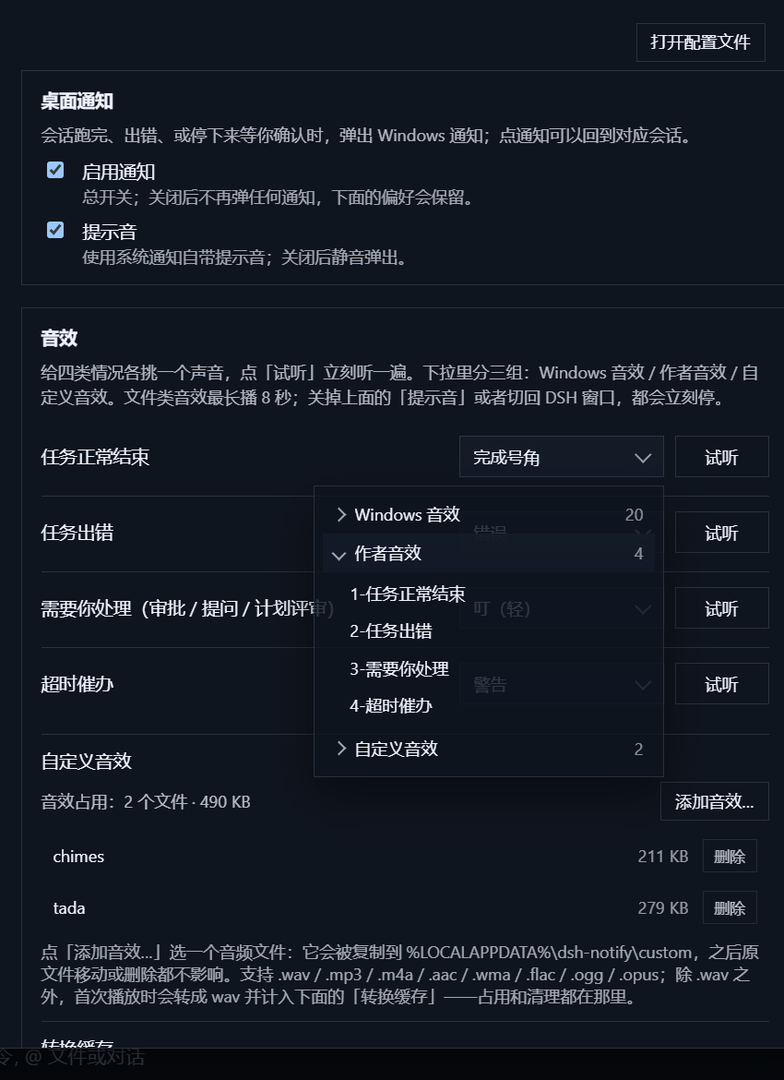
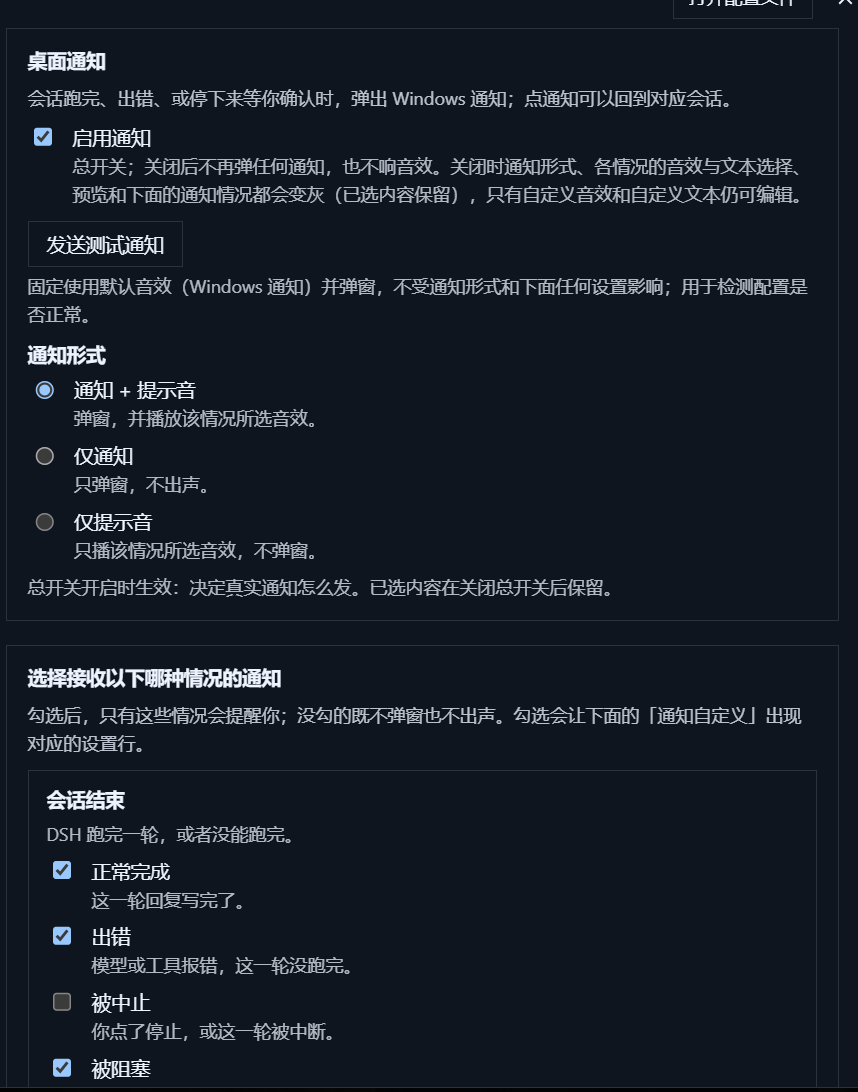
chore(release): 0.2.0
Bump both manifests to 0.2.0 and cut the 0.2.0 changelog section with the live-verification note. Refresh both READMEs and add three settings screenshots. Sanitize machine-specific paths in the acceptance records, make scripts/selfcheck.mjs resolve the built bundle relative to itself, and drop a machine-specific fixture path from the summary test.

diff --git a/tests/summary.spec.ts b/tests/summary.spec.ts
@@ -64,7 +64,7 @@ describe('toast copy', () => {
 
   it('names the workspace from the session directory', () => {
     expect(workspaceName('D:\\projects\\notification plugin')).toBe('notification plugin')
-    expect(workspaceName('E:/dsh-plugins/dsh-notify-desktop/')).toBe('dsh-notify-desktop')
+    expect(workspaceName('C:/work/my-tool/')).toBe('my-tool')
     expect(workspaceName(undefined)).toBe('')
   })
 })

diff --git a/AGENTS.md b/AGENTS.md
@@ -34,14 +34,14 @@
 | **有焦点** | **不弹**（按设计抑制） | — |
 | **无焦点**（可见但没被选中 / 最小化 / 隐藏） | 宿主 PowerShell Toast（AUMID `electron.app.DeepSeek Harness`） | 只能回前台 |
 | 无焦点但宿主路由不可达 | 渲染层 `new Notification()`（兜底） | 回前台 + 跳会话 |
-| 通知形式 = 仅提示音（2026-10-25 新增） | **不弹任何东西**，`POST /dsh-notify/sound` 让宿主单独播放音效 | 无 |
+| 通知形式 = 仅提示音 | **不弹任何东西**，`POST /dsh-notify/sound` 让宿主单独播放音效 | 无 |
 
 **判据是 `!document.hasFocus()`，不是 `document.hidden`**：渲染层通知只在窗口有焦点时可靠，而那时按设计不弹 ——
 所以按「可见/隐藏」分流等于让最常见的场景落到一条不可靠的通道上（实测：最小化、可见但失焦，渲染层都是静默失效）。
 
 宿主 Toast 的三个硬约束（实测，别"优化"掉）：PowerShell **绝对路径**、**不要 `detached`**、**stdio 保留管道并 drain**（`'ignore'` 会让 Toast 静默失效且退出码仍为 0）。
 
-## 通知形式、按情况音效与弹窗文本（2026-10-25 重构）
+## 通知形式、按情况音效与弹窗文本
 
 **情况（scenario）是唯一的分组键**，共 9 个（`src/scenarios.ts` 的 `SCENARIO_IDS`，顺序即 UI 顺序）：
 `completed / error / aborted / blocked / max-tokens / approval / question / plan-review / reminder`。
@@ -54,7 +54,7 @@
 - 迁移（都在 `readSettings` 里、不换存储键）：`soundEnabled=false` → `mode:'notify'`；
   旧 4 组 `sounds.finished/error/attention/reminder` 按组下发到 9 个情况；旧全局 `titleTemplate/bodyTemplate`
   若有自定义值 → 放进 `legacyText`，客户端启动后写进各已启用情况的磁盘库并清掉该字段（失败则下次启动重试）。
-- UI 三张卡（2026-10-25 调整顺序）：**① 桌面通知**（总开关 → 发送测试通知 → 通知形式三选一）→
+- UI 三张卡：**① 桌面通知**（总开关 → 发送测试通知 → 通知形式三选一）→
   **② 选择接收以下哪种情况的通知**（"会话结束"5 个开关 / "等待你确认"3 个开关，每行带一句例子，
   **不带「例：」前缀**）→ **③ 通知自定义**（按已勾选情况的行：音效选择器 + 文本选择器 + 预览效果；
   下方两个可折叠库：自定义音效（含转换缓存）、自定义文本）。
@@ -71,7 +71,7 @@
   按情况分组、每组 ≤3；写入 = 临时文件 + rename；损坏按空库处理。宿主路由 `GET/POST /dsh-notify/text-templates`
   负责读写与校验（`src/text-store.ts` 纯逻辑可测）。客户端**启动时加载一次**并缓存（`src/client/texts.ts`），
   编辑后由 store 回填；设置里只存模板 id。
-- 排版（2026-10-25）：**字体跟随主题，不写死字体族** —— `.dsh_notify_section` 用 `var(--dsw-font-family, inherit)`，
+- 排版：**字体跟随主题，不写死字体族** —— `.dsh_notify_section` 用 `var(--dsw-font-family, inherit)`，
   模板编辑器/占位符 chips/字数计数用 `var(--ds-font-family-code, …)` 半等宽；数字统一 `font-variant-numeric: tabular-nums`，
   说明文字透明度 0.72–0.78、行高 1.55。改样式时保持这两条，否则用户改了 DSH 正文字体插件会不跟、占位符对不齐。
 
@@ -83,7 +83,7 @@
 - 非 wav 自定义音效：宿主先用 `ffmpeg` 转成 wav（缓存 `%LOCALAPPDATA%\dsh-notify\sounds\<源路径 sha1 前 16 位>.wav`）再交给 SoundPlayer。
   ffmpeg 从 **PATH** 找（`ffmpeg.exe`），**wav 与内置音效库不依赖它**；找不到 → 静音，诊断接口 `media.ffmpeg` 会显示 `null`。
 - 文件类音效**播放封顶 8 秒**（宿主 `setTimeout` + kill 子进程）；关总开关、切到「仅通知」、或窗口重获焦点，都会立刻掐（`POST /dsh-notify/silence`）。
-- **仅发声路由**（`POST /dsh-notify/sound`，2026-10-25 新增）：id 解析与 Toast 完全同源（目录/白名单），播放复用同一套
+- **仅发声路由**（`POST /dsh-notify/sound`）：id 解析与 Toast 完全同源（目录/白名单），播放复用同一套
   SoundPlayer 子进程管线（8 秒封顶 + soundPlayers + silence）。`system:*` 事件音**没有弹窗可挂 `<audio>`**，宿主用
   `reg.exe`（静态 argv，一次查整棵 `HKCU\AppEvents\Schemes\Apps\.Default`）解析 `.Current` 的 wav——
   本机实测 5 个事件全部解析成功且与 IM=SMS 重合（spike S3）；解析失败 → 静音 + debug 上报，下次重查。

diff --git a/README.zh.md b/README.zh.md
@@ -5,7 +5,7 @@
 给 **DSH 桌面端** 加 Windows 原生通知：会话跑完、出错、或停下来等你确认时弹一条系统通知，并播放**为这种情况挑好的音效**、
 显示**为这种情况写好的文字**；点通知把 DSH 窗口拉回前台。
 
-<img src="https://raw.githubusercontent.com/paleech0/dsh-notify-desktop/main/docs/images/settings.png" width="460" alt="通知设置">
+<img src="https://raw.githubusercontent.com/paleech0/dsh-notify-desktop/main/docs/images/settings.png" width="460" alt="桌面通知与通知情况">
 
 ## 它能给你什么
 
@@ -76,6 +76,9 @@
 
 勾选情况后，下面的「通知自定义」会实时出现对应行；取消勾选只是隐藏，已配的音效和文本都保留，重新勾选回来还在。
 
+<img src="https://raw.githubusercontent.com/paleech0/dsh-notify-desktop/main/docs/images/settings-situations.png" width="460" alt="通知自定义（上）：按情况选音效与文本">
+<img src="https://raw.githubusercontent.com/paleech0/dsh-notify-desktop/main/docs/images/settings-customize.png" width="460" alt="通知自定义（下）：催办分钟数与两个折叠库">
+
 ## 音效
 
 **三个分区。** 每个音效选择器都是两级：先选**来源**，再选该来源下的具体音效。
@@ -100,12 +103,12 @@
 **每个情况一套文字。** 真实通知的标题和正文来自该情况当前选中的文本：
 
 - **默认文本** —— 内置的 `{工作区} · {状态}` / `{内容}`，不需要配置。
-- **自定义文本** —— 在该情况行里选择，或在卡二的「自定义文本」里新建/编辑。每个情况最多保存 **3 套**。
+- **自定义文本** —— 在该情况行里选择，或在卡三的「自定义文本」里新建/编辑。每个情况最多保存 **3 套**。
 
 **编辑器。** 名称（最多 24 字）、标题（120 字）、正文（300 字）；占位符 `{工作区}` `{状态}` `{内容}` `{分钟}`
 可点击插入，编辑器里会实时渲染一行预览。长度上限与 Windows Toast 的截断一致。
 
-**测试与预览。** 卡一的「发送测试通知」永远是固定文案 + 系统默认音效；卡二的「预览效果」才用该情况真正的文本和音效
+**测试与预览。** 卡一的「发送测试通知」永远是固定文案 + 系统默认音效；卡三的「预览效果」才用该情况真正的文本和音效
 （跟随当前通知形式）。默认文本的 `{内容}` 为空时整条正文回退到该情况的内置提示句。
 
 **存在哪里。** 文本内容保存在 `%LOCALAPPDATA%\dsh-notify\templates\templates.json`（和自定义音效同一个 `dsh-notify` 目录），
@@ -116,17 +119,17 @@
 
 | | |
 |---|---|
-| 实测版本 | DSH 桌面端 **0.2.1-rc.2**（2026-10-18）：版本闸门、插件加载、投影送达、宿主 Toast/音效/静音路由、`dsh://open` 回前台以及一条真实 Windows Toast 全部通过（[证据](docs/acceptance/2026-10-18-dsh-0.2.1-rc.2-compat.md)）；此前 0.2.1-rc.1 与 0.2.0-rc.2 的验收也通过 |
-| 声明范围 | `>=0.2.0-rc.2 <0.3.0-0` —— 即整条 0.2 线，含预发布版；加载器按 `includePrerelease` 判定，0.2.1-rc.2 在范围内 |
+| 实测版本 | DSH 桌面端 **0.2.1-rc.3**：插件加载、会话投影、宿主 Toast / 音效 / 静音 / 文本模板路由，以及设置页里的预览、测试通知、缓存清理均实测通过（[证据](docs/acceptance/2026-10-25-notification-customization.md)）；更早的 0.2.1-rc.2 / rc.1 / 0.2.0-rc.2 验收记录见 `docs/acceptance/` |
+| 声明范围 | `>=0.2.0-rc.2 <0.3.0-0` —— 整条 0.2 线（含预发布）；加载器按 `includePrerelease` 判定，0.2.1-rc.3 在范围内 |
 | 平台 | 仅 Windows 桌面端 profile；web profile 没有 Toast 通道，未验证 |
-| 0.2.1 seam 核对 | 0.2.1-rc.2 运行时镜像不带 `.d.ts`；本插件用到的全部 seam 均按其编译 JS 复核通过 |
+| seam 核对 | 0.2.1 运行时镜像不带 `.d.ts`；本插件用到的全部 seam 均按其编译 JS 复核通过 |
 
 profile 加载器只看 `peerDependencies` 里名为 `@deepseek-ai/dsh` 或 `@deepseek-ai/dsh-*` 的条目，
 用 `semver.satisfies(runtime, range, { includePrerelease: true })` 判定；**不匹配会直接跳过该插件**（不加载）。
 运行时不在范围内时，可以显式豁免：
 
 ```powershell
-dsh.cmd plugin --profile desktop allow-version dsh-notify-desktop@0.1.1 --dsh-version <你的版本> --accept-risk
+dsh.cmd plugin --profile desktop allow-version dsh-notify-desktop@0.2.0 --dsh-version <你的版本> --accept-risk
 ```
 
 ## 工作原理

diff --git a/README.md b/README.md
@@ -6,7 +6,7 @@ Windows toast notifications for the DSH desktop app. A session finishes, fails, 
 something — you get a native notification with a sound and a piece of text chosen for that situation, and
 clicking it brings the DSH window back to the front.
 
-<img src="https://raw.githubusercontent.com/paleech0/dsh-notify-desktop/main/docs/images/settings.png" width="460" alt="Notification settings">
+<img src="https://raw.githubusercontent.com/paleech0/dsh-notify-desktop/main/docs/images/settings.png" width="460" alt="Desktop notifications and the situation list">
 
 ## What you get
 
@@ -83,6 +83,9 @@ this machine; every change applies immediately.
 Ticking a situation makes its row appear in the "Notification setup" card below; unticking it only hides the
 row and keeps its sound and text, so ticking it again brings them back.
 
+<img src="https://raw.githubusercontent.com/paleech0/dsh-notify-desktop/main/docs/images/settings-situations.png" width="460" alt="Notification setup (top): sound and text per situation">
+<img src="https://raw.githubusercontent.com/paleech0/dsh-notify-desktop/main/docs/images/settings-customize.png" width="460" alt="Notification setup (bottom): reminder minutes and the two collapsible libraries">
+
 ## Sounds
 
 **Three sections.** Every sound picker opens a two-level list: the source first, that source's sounds second.
@@ -117,7 +120,7 @@ text** saved for that situation. Each situation keeps at most **three** custom t
 `{分钟}` are insertable with one click, and a live preview line renders the template while you type.
 
 **Test vs preview.** The test button in card 1 always uses fixed copy and the default Windows sound; the
-Preview button in card 2 uses the situation's real text and sound (following the delivery mode). An empty
+Preview button in card 3 uses the situation's real text and sound (following the delivery mode). An empty
 `{内容}` falls back to that situation's built-in line.
 
 **Where they live.** The wording is stored in
@@ -131,17 +134,17 @@ this file by hand** — the client loads it once at start-up.
 
 | | |
 |---|---|
-| Verified on | DSH desktop **0.2.1-rc.2** (2026-10-18): version gate, plugin loading, projection delivery, host toast / sound / silence routes, `dsh://open` focus and a real Windows toast all pass ([evidence](docs/acceptance/2026-10-18-dsh-0.2.1-rc.2-compat.md)); earlier runs on 0.2.1-rc.1 and 0.2.0-rc.2 also passed |
-| Declared range | `>=0.2.0-rc.2 <0.3.0-0` — the whole 0.2 line, prereleases included; the loader checks it with `includePrerelease`, so 0.2.1-rc.2 passes |
+| Verified on | DSH desktop **0.2.1-rc.3**: plugin loading, projection delivery, host toast / sound / silence / text-template routes, plus the settings page's preview, test notification and cache clearing all pass ([evidence](docs/acceptance/2026-10-25-notification-customization.md)); earlier acceptance runs on 0.2.1-rc.2 / rc.1 / 0.2.0-rc.2 are kept in `docs/acceptance/` |
+| Declared range | `>=0.2.0-rc.2 <0.3.0-0` — the whole 0.2 line, prereleases included; the loader checks it with `includePrerelease`, so 0.2.1-rc.3 passes |
 | Platform | Windows desktop profile only; the web profile has no toast channel and is untested |
-| 0.2.1 seam check | The 0.2.1-rc.2 runtime image ships no `.d.ts`; every seam used here was checked against its compiled JS and still matches |
+| Seam check | The 0.2.1 runtime image ships no `.d.ts`; every seam used here was checked against its compiled JS and still matches |
 
 The profile loader reads the `peerDependencies` entries named `@deepseek-ai/dsh` or `@deepseek-ai/dsh-*`
 and checks them with `semver.satisfies(runtime, range, { includePrerelease: true })`. A mismatch makes it
 skip the plugin rather than load it. On another runtime, grant an exemption:
 
 ```powershell
-dsh.cmd plugin --profile desktop allow-version dsh-notify-desktop@0.1.1 --dsh-version <your-version> --accept-risk
+dsh.cmd plugin --profile desktop allow-version dsh-notify-desktop@0.2.0 --dsh-version <your-version> --accept-risk
 ```
 
 ## How it works

diff --git a/docs/acceptance/2026-10-17-dsh-0.2.1-rc.1-compat.md b/docs/acceptance/2026-10-17-dsh-0.2.1-rc.1-compat.md
@@ -1,12 +1,12 @@
 # 兼容性验证：dsh-notify-desktop vs DSH 桌面端 0.2.1-rc.1（2026-10-17）
 
 > 环境：DSH 桌面端 **0.2.1-rc.1**（nightly 通道，Electron 44，Windows 11）；插件 `dsh-notify-desktop` 0.1.0。
-> 装配：desktop profile `link:E:\dsh-plugins\dsh-notify-desktop`（与工作区 `E:\DSH projects\notification plugin` 的 lib 哈希一致）。
+> 装配：desktop profile 以 `link:` 指向本仓库（与工作区副本的 lib 哈希一致）。
 > 结论：**兼容，无需改代码**。版本闸门、插件加载、会话投影、客户端决策、宿主 Toast / 文件音效 / 静默、失焦端到端链路均通过。
 
 ## 1. 版本闸门
 
-- 运行时 `"E:\deepseek desktop\resources\runtime\cli\bin\dsh.cmd" --version` = **0.2.1-rc.1**；`DeepSeek Harness.exe` fileVersion = 0.2.1-rc.1。
+- 运行时 `"<DSH 桌面端安装目录>\resources\runtime\cli\bin\dsh.cmd" --version` = **0.2.1-rc.1**；`DeepSeek Harness.exe` fileVersion = 0.2.1-rc.1。
 - 插件声明 `dsh.engines.dsh = ">=0.2.0-rc.2 <0.3.0-0"`；用运行时自带 semver 7.8.5 计算：
   `satisfies("0.2.1-rc.1", ">=0.2.0-rc.2 <0.3.0-0", {includePrerelease:true}) = true`
   （注意：**不带** `includePrerelease` 时为 false；宿主闸门带该选项。）
@@ -46,8 +46,8 @@
 
 1. **运行时无类型声明** + devDeps 仍锁 0.2.0-rc.2：当前运行不受影响；将来按 0.2.1 类型重编时会碰到
    `@deepseek-ai/dsh-client-ui-slots` 已无独立运行时包（插件仅 type-import）、SlotMap 增强迁到 ui-settings-general 等类型级差异。
-2. **装配链接指向另一份克隆**：profile 的 link 目标是 `E:\dsh-plugins\dsh-notify-desktop`（HEAD cc38700，比工作区多 2 个 docs commit），
-   工作区是 `E:\DSH projects\notification plugin`（HEAD 936e24b）。当前 lib 哈希一致；**以后改源码后必须重建并同步到被 link 的副本（或重挂 link），否则运行时不生效**。
+2. **装配链接指向另一份克隆**：profile 的 link 目标与工作区不是同一个目录（被 link 的副本 HEAD 为 cc38700，工作区当时为 936e24b）。
+   当前 lib 哈希一致；**以后改源码后必须重建并同步到被 link 的副本（或重挂 link），否则运行时不生效**。
 3. 通知依赖会话投影送达链路（host snapshot → control 帧 → `list.byId.projectionValues`，无 key 白名单）——0.2.1 仍如此。
 4. 0.2.1 的 `turn/end` 新增 `interrupted` / `forked` 结局；插件 `NotifyReason` 词表仍只有
    completed/error/aborted/blocked/max-tokens，新结局按设计**静默**（不弹），是否补属产品决定，非兼容性问题。

diff --git a/CHANGELOG.md b/CHANGELOG.md
@@ -4,7 +4,7 @@ All notable changes to this plugin are recorded here.
 The format follows [Keep a Changelog](https://keepachangelog.com/en/1.1.0/),
 and the project adheres to [Semantic Versioning](https://semver.org/spec/v2.0.0.html).
 
-## [Unreleased]
+## [0.2.0] - 2026-10-25
 
 ### Changed
 
@@ -41,6 +41,13 @@ and the project adheres to [Semantic Versioning](https://semver.org/spec/v2.0.0.
 - Host route `GET/POST /dsh-notify/text-templates`: reads every saved text and saves or deletes one,
   with per-situation validation (at most three, bounded name/title/body, atomic file replace).
 - `GET /dsh-notify/debug` now also reports text-template save/delete lines in the client report ring.
+
+### Verified
+
+- On DSH desktop **0.2.1-rc.3**: the plugin loads, the projection is delivered, the host toast / sound /
+  silence / text-template routes answer, and the settings page's preview, test notification and cache
+  clearing were exercised for real. The text-template route passed a save → disk read → fresh GET →
+  delete round-trip with Chinese content and left the store byte-identical afterwards.
 
 ## [0.1.1] - 2026-10-18
 

diff --git a/docs/acceptance/2026-10-25-notification-customization.md b/docs/acceptance/2026-10-25-notification-customization.md
@@ -1,7 +1,9 @@
 # 按情况自定义音效与弹窗文本 — 验收记录（2026-10-25）
 
-**状态：代码完成，工程闸门全绿（typecheck + vitest 114/114 + build）；等待同步到桌面端实际加载目录并由用户重启后做实机验收。**
-本轮替换掉当天早些时候「通知形式重构」里的「4 组音效 + 全局标题/正文模板」部分（那份验收记录的 UI 章节自此过时）。
+**状态：随 0.2.0 发布。** 实机验证（DSH 桌面端 0.2.1-rc.3）：宿主加载、文本模板路由保存/删除
+（UTF-8 中文往返、磁盘落盘、字节级还原）、设置页的预览 / 测试通知 / 静音 / 转换缓存清理均通过；
+视觉细节按下方清单人工过目。
+本轮替换掉「通知形式重构」里的「4 组音效 + 全局标题/正文模板」部分（那份验收记录的 UI 章节自此过时）。
 
 ## 本轮改动
 

diff --git a/docs/acceptance/2026-10-10-desktop-e2e.md b/docs/acceptance/2026-10-10-desktop-e2e.md
@@ -1,7 +1,7 @@
 # 端到端验收：DSH 桌面端通知插件（2026-10-10）
 
 > 环境：DSH 桌面端 0.2.0-rc.2（Electron 44，dsh-app://app/），Windows 11，2560×1600。
-> 插件：`dsh-notify-desktop`，以 `link:E:/DSH projects/notification plugin` 装配到 desktop profile。
+> 插件：`dsh-notify-desktop`，以 `link:<本仓库>` 装配到 desktop profile。
 > 证据来源：① 插件自带的 `GET /dsh-notify/debug` 上报通道（客户端每步都 POST 到宿主）；
 > ② 通知真实弹出的截图；③ 用户点击后的观察确认；④ 会话日志（zstd 多帧，逐帧解压读原始事件）。
 
